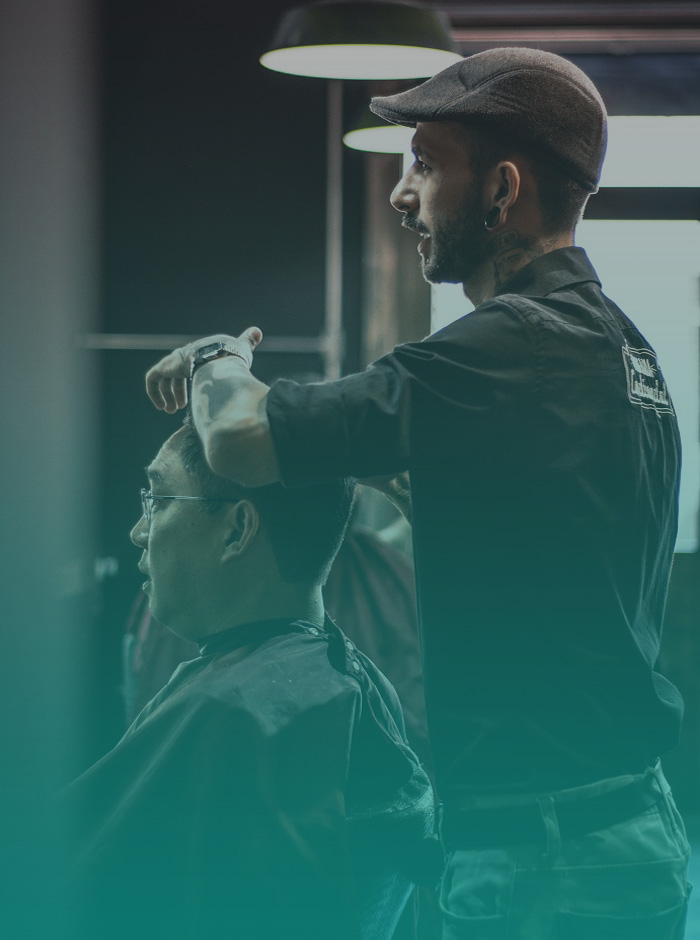
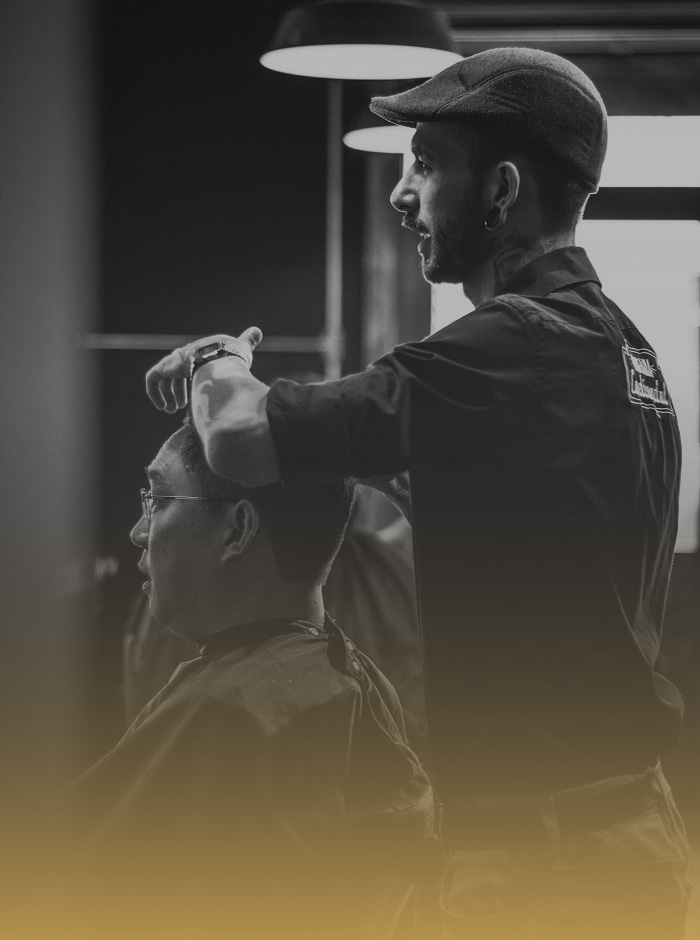
change

diff --git a/css/style.css b/css/style.css
@@ -1,4 +1,6 @@
 /* Parisienne font */
+@import url('https://fonts.googleapis.com/css2?family=Gloock&display=swap');
+
 @import url('https://fonts.googleapis.com/css2?family=Parisienne&display=swap');
 @import url('https://fonts.googleapis.com/css2?family=Great+Vibes&family=Parisienne&display=swap');
 @import url('https://fonts.googleapis.com/css2?family=Allura&family=Great+Vibes&family=Parisienne&display=swap');
@@ -7,6 +9,9 @@
     --ff2:'Parisienne', cursive;
     --ff3: 'Great Vibes', cursive;
     --ff4: 'Allura', cursive;
+
+    /* colors */
+    --p-colors:#111;
 }
 
 /* common css */
@@ -28,44 +33,51 @@ body{
 
 /* hero section */
 .hero{
-    background-image:url("../images/banner.jpg");
-    background: linear-gradient(#009688 , rgba(0,0,0,0.5) ),url("../images/banner.jpg");
+    background-image:url("../images/banner2.jpg");
+    background: linear-gradient( rgba(0,0,0,0.5),#862B0D  ),url("../images/barber2.jpg");
     background-size:cover;
     background-position: center;
     width:100%;
     height: 100vh;
 }
 .hero .logo{
-    width: 138px;
+    text-align: center;
+    font-size: 28px;
     margin:auto;
     padding-top: 70px;
+    color:#FFC95F;
 }
 .hero .logo img{
     width:100%;
 }
 .hero .hero-text{
     text-align: center;
-    margin-top: 100px;
+    margin-top: 150px;
     color:#fff;
 }
 .hero .hero-text h1{
-    font-size: 110px;
+    font-size: 64px;
     font-weight: 800;
+    font-family: 'Gloock', serif;
+    max-width: 56%;
+    color:#FFF9C9;
+    margin:auto;
 }
 .hero .hero-text p{
     font-size: 20px;
-    color:#f4f4f4;
+    color:#FFF9C9;
     font-style: italic;
-    margin-top: -10px;
+    margin-top: 20px;
     font-weight: 300;
+
 }
 .hero .hero-text .hero-btn{
     margin-top:  60px;
 }
 .hero .hero-text .hero-btn a{
-    border:1px solid #fff;
+    border:1px solid #FFC95F;
     font-size: 16px;
-    color:#fff;
+    color:#FFC95F;
     padding: 12px 0px;
     text-decoration: none;
     display: inline-block;
@@ -113,7 +125,7 @@ body{
 .title p{
     font-size: 18px;
     font-weight: 500;
-    color:#009688;
+    color:#FFC95F;
     margin:auto;
     letter-spacing: 2px;
 }
@@ -137,7 +149,7 @@ body{
     text-align: left;
 }
 #features-bx .features h1{
-    color:#009688;
+    color:#FFC95F;
     font-size: 20px;
     font-weight: 400;
     margin-bottom: 10px;
@@ -152,10 +164,10 @@ body{
 }
 #features-bx .features .desc .icon{ 
   align-items: center;
-  border-right:2px solid #009688;
+  border-right:2px solid #FFC95F;
   /* border-radius: 7px; */
   font-size: 20px;
-  color:#009688;
+  color:#FFC95F;
   margin-right: 10px;
   padding-right: 20px;
 }
@@ -275,11 +287,11 @@ body{
     text-align: left;
 }
 .left-col p i{
-    color:#009688;
+    color:#FFC95F;
     margin-right: 10px;
 }
 .right-col p i{
-    color:#009688;
+    color:#FFC95F;
     margin-left: 10px;
 }
 
@@ -294,9 +306,9 @@ body{
 }
 #contact .social .fa-brands{
     font-size: 24px;
-    color:#009688;
+    color:#FFC95F;
     margin-right: 10px;
-    border:1px solid #009688;
+    border:1px solid #FFC95F;
     display: grid;
     width:50px;
     height: 50px;
@@ -304,7 +316,7 @@ body{
     transition:.5s;
 }
 #contact .social .fa-brands:hover{
-    background:#009688;
+    background:#FFC95F;
     color:#fff;
     margin-top: -5px;
 }
@@ -340,7 +352,7 @@ body{
     position: fixed;
     bottom:0;left:0;
     padding: 50px;
-    background-color: #009688;
+    background-color: #FFC95F;
     width:100%;
     text-align: center;
     opacity: .9;
@@ -383,7 +395,7 @@ body{
 }
 #open-btn{
     position:fixed;
-    background:#009688;
+    background:#FFC95F;
     bottom: 20px;
     left:50%;
     transform: translateX(-50%);

diff --git a/index.html b/index.html
@@ -33,11 +33,11 @@
 
     <section class="hero">
         <div class="logo">
-            <img src="images/logo.png">
+            <h4>SE <i class="fa-solid fa-scissors"></i> Y BOY</h4>
         </div>
         <div class="hero-text">
-            <h1>Hair Studio</h1>
-            <p>Style Your Hair Style Your Life</p>
+            <h1>Discover the Artistry of Exceptional Barber Services</h1>
+            <p>Experience Precision Cuts, Classic Shaves, and Grooming Excellence</p>
             <div class="hero-btn">
                 <a href="#"><span></span> Find Out</a>
                 <a href="#"><span></span> Read More</a>
